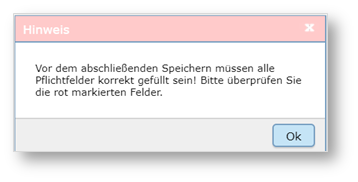
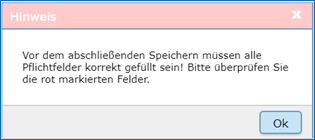
Aktualisierung

diff --git a/docs/metaver_ige/ige_allgemeines/ige_allgemeines.rst b/docs/metaver_ige/ige_allgemeines/ige_allgemeines.rst
@@ -512,11 +512,15 @@ Abschließenden Speichern & Veröffentlichen
 Anders ist es beim Abschließenden Speichern & Veröffentlichen. Durch diese Art der Speicherung werden die Daten automatisch gemäß ihrer Veröffentlichungsbreite (Internet, Intranet oder amtsintern) publiziert und erscheinen nach der automatischen Indexierung im Internet.
 Voraussetzung für das abschließende Speichern ist die Befüllung sämtlicher Pflichtfelder. Fehlen entsprechende Angaben, erscheint bei der Betätigung des Buttons „Abschließendes Speichern“ eine Fehlermeldung und die Überschriften der entsprechenden Felder werden rot eingefärbt.
 
-[Grafik]
+.. image:: ../../img_ige/metaver_ige/ige_box_hinweis/ige-dialog_hinweis_alle-pflichtfelder-ausfuellen.png
+
+Abb.: Hinweisfenster - Alle Pflichtfelder ausfüllen
 
 Um trotz der Fehlermeldung die Bearbeitung sichern zu können, wählen Sie die Funktion Zwischenspeichern.
 
-[Grafik]
+.. image:: ../../img_ige/metaver_ige/ige_box_hinweis/ige-dialog_hinweis_zeige-naechsten-fehler.png
+
+Abb.: Rot gekennzeichnete Eingabefelder
 
 Über die Schaltfläche „Zeige nächsten Fehler“, kann die Erfassungsmaske nach fehlenden Einträgen durchsucht werden.
 
@@ -524,13 +528,17 @@ Um trotz der Fehlermeldung die Bearbeitung sichern zu können, wählen Sie die F
 Automatische Speicherung / Session abgelaufen
 '''''''''''''''''''''''''''''''''''''''''''''
 
-[Grafik]
+.. image:: ../../img_ige/metaver_ige/ige_administration/einstellungen/ige-automatische-speicherung.png
+
+Abb.: InGrid Editor Einstellungen
 
 Einstellungen in der Katalogverwaltung.
+
 
 Autosave
 ''''''''
 Die automatische Speicherung (Zwischenspeichern), ist in der Katalogverwaltung auf zwei Minuten eingestellt und kann nur durch den Katalogadministrator geändert werden.
+
 
 Session refresh
 '''''''''''''''
